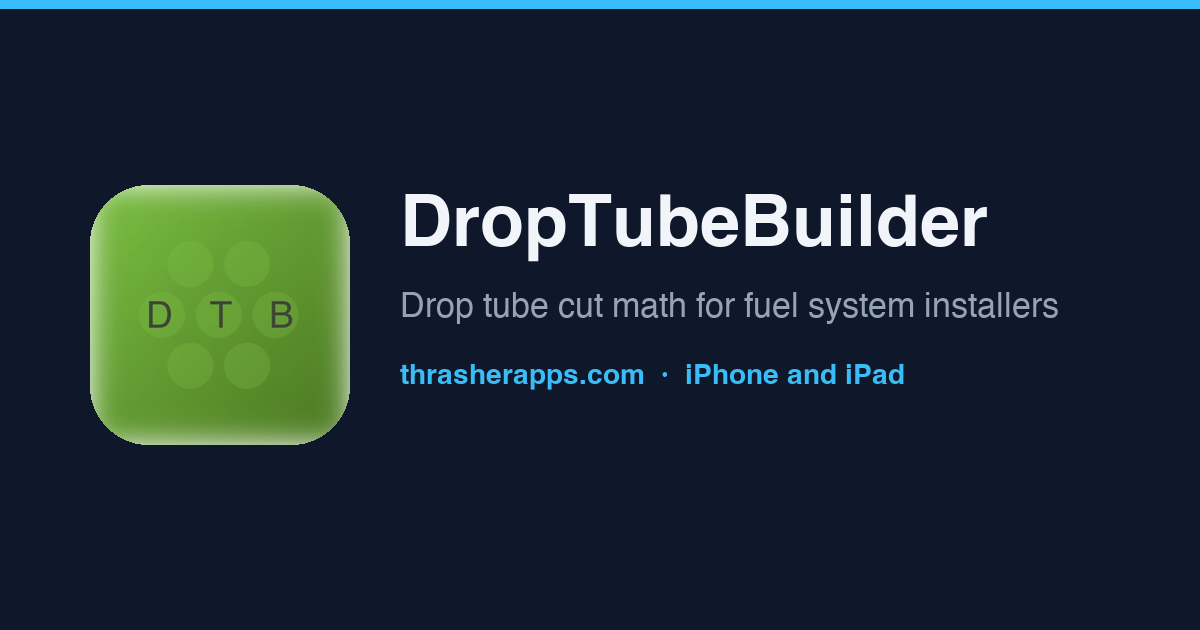
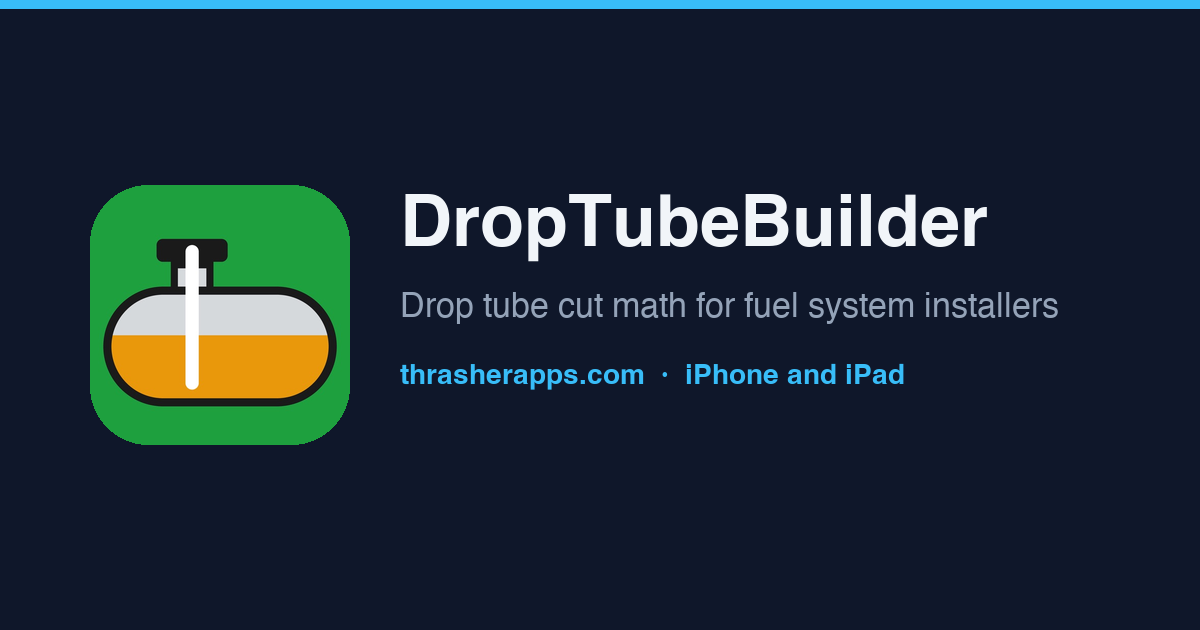
Plain Read is live: App Store button, Apps page card, share cards
Replaces the Coming soon badge on /plainread/ with the App Store link, adds
Plain Read to apps.html, and builds the share cards and schema for Plain Read
and Plain QR now that the iTunes lookup returns both. The DropTube card was
rebuilt from its current icon.

Changed region(s): [[0.0617, 0.2714, 0.3083, 0.7238]]

diff --git a/plainread/index.html b/plainread/index.html
@@ -7,6 +7,10 @@
   <meta name="description" content="Listen to PDFs, articles and pasted text with the voices on your iPhone. Words highlighted as they are read, works offline, no subscription." />
   <link rel="canonical" href="https://thrasherapps.com/plainread/" />
   <link rel="stylesheet" href="/assets/site.css">
+  <meta property="og:image" content="https://thrasherapps.com/assets/share/plainread.png" />
+  <meta name="twitter:card" content="summary_large_image" />
+  <meta name="twitter:image" content="https://thrasherapps.com/assets/share/plainread.png" />
+  <script type="application/ld+json">{"@context":"https://schema.org","@type":"SoftwareApplication","name":"Plain Read: Text to Speech","operatingSystem":"iOS 17.6 or later","applicationCategory":"BusinessApplication","url":"https://thrasherapps.com/plainread/","downloadUrl":"https://apps.apple.com/us/app/id6824189689","description":"Plain Read reads aloud whatever you give it, in the voices built into your iPhone, and highlights each word as it goes. Paste text, open a PDF or document, or bring in an article f","author":{"@type":"Organization","name":"ThrasherApps","url":"https://thrasherapps.com"},"offers":{"@type":"Offer","price":"0.00","priceCurrency":"USD"}}</script>
 </head>
 <body>
 
@@ -32,7 +36,7 @@
         Free to listen, works offline, and a one time Pro upgrade instead of a yearly subscription. No ads, no account, no tracking.
       </p>
       <div class="mt-2">
-        <span class="badge">Coming soon to the App Store</span>
+        <a class="btn" href="https://apps.apple.com/us/app/id6824189689">Download on the App Store</a>
       </div>
       <div class="mt-2">
         <a class="btn btn-secondary" href="#features">See what it does &darr;</a>

diff --git a/plainqr/index.html b/plainqr/index.html
@@ -7,6 +7,10 @@
   <meta name="description" content="A QR code and barcode scanner that shows where a link really goes before you open it. Try it free for 3 days, then pay once. No subscription, no ads, no tracking." />
   <link rel="canonical" href="https://thrasherapps.com/plainqr/" />
   <link rel="stylesheet" href="/assets/site.css">
+  <meta property="og:image" content="https://thrasherapps.com/assets/share/plainqr.png" />
+  <meta name="twitter:card" content="summary_large_image" />
+  <meta name="twitter:image" content="https://thrasherapps.com/assets/share/plainqr.png" />
+  <script type="application/ld+json">{"@context":"https://schema.org","@type":"SoftwareApplication","name":"Plain QR: Code Scanner","operatingSystem":"iOS 17.6 or later","applicationCategory":"BusinessApplication","url":"https://thrasherapps.com/plainqr/","downloadUrl":"https://apps.apple.com/us/app/id6821741458","description":"Scan any QR code and see where it really goes before you open it. Plain QR is an honest QR code and barcode scanner. Try every feature free for 3 days, then pay once to keep it. No","author":{"@type":"Organization","name":"ThrasherApps","url":"https://thrasherapps.com"},"offers":{"@type":"Offer","price":"0.00","priceCurrency":"USD"}}</script>
 </head>
 <body>
 

diff --git a/apps.html b/apps.html
@@ -183,6 +183,23 @@
           </p>
         </article>
 
+        <!-- Plain Read (NEW) -->
+        <article class="card">
+          <h3>🔊 Plain Read (iOS)</h3>
+          <p class="mt-1">
+            Listen to PDFs, articles and pasted text with the voices already on your iPhone, each word highlighted as it is read. Listening is free and works offline; Pro is one $4.99 payment. No subscription, no ads, no tracking.
+          </p>
+          <p class="mt-2">
+            <a class="btn" href="https://apps.apple.com/us/app/id6824189689">Download on the App Store</a>
+          </p>
+          <p class="mt-1">
+            <a href="/plainread/">Learn more →</a>
+          </p>
+          <p class="mt-1">
+            <a href="plainread/privacy.html">Privacy</a> · <a href="plainread/terms.html">Terms</a> · <a href="plainread/support.html">Support</a>
+          </p>
+        </article>
+
         <!-- PaidUp Invoices (NEW) -->
         <article class="card">
           <h3>💸 PaidUp Invoices (iOS)</h3>

diff --git a/scripts/build_share_cards.py b/scripts/build_share_cards.py
@@ -30,6 +30,7 @@ APPS = {
     "plugwatt":        ("6788584092", "Offline toolkit for EV charging technicians"),
     "winnow":          ("6787541045", "Find duplicates and free up space, all on device"),
     "plainqr":         ("6821741458", "See where a QR code really goes before you open it"),
+    "plainread":       ("6824189689", "Listen to your PDFs and articles, no subscription"),
     "paidup":          ("6785131011", "Clean invoices in seconds, private and on device"),
     "pausemeno":       ("6785331336", "Track menopause symptoms and see your patterns"),
     "headpainjournal": ("6785294370", "Track migraines in one tap, find your triggers"),
